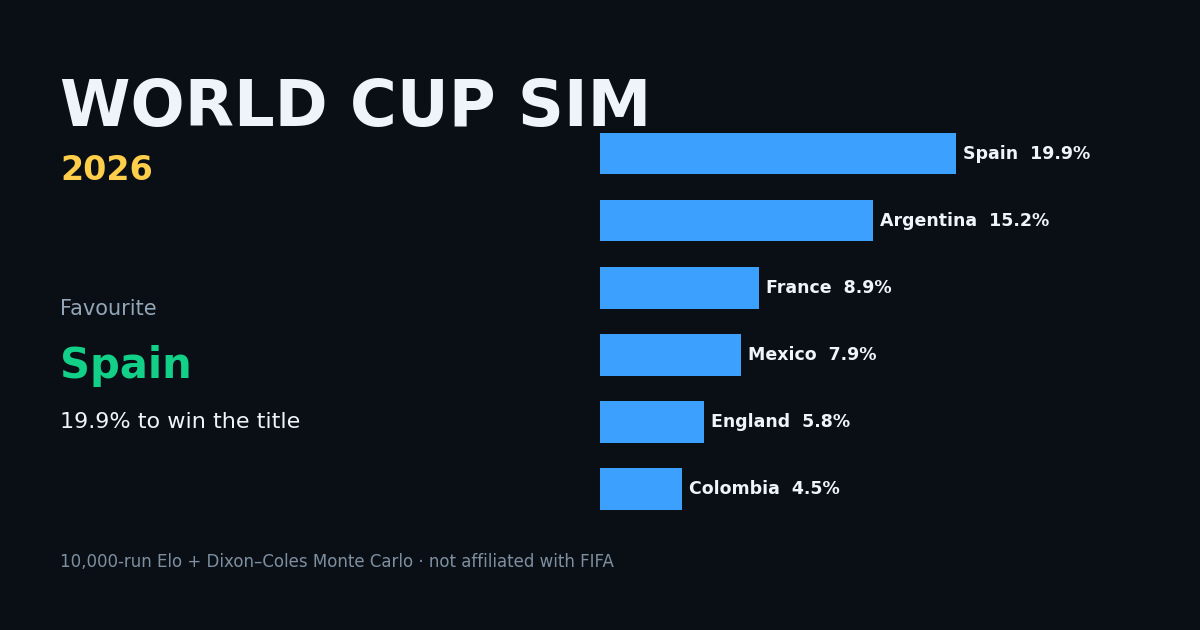
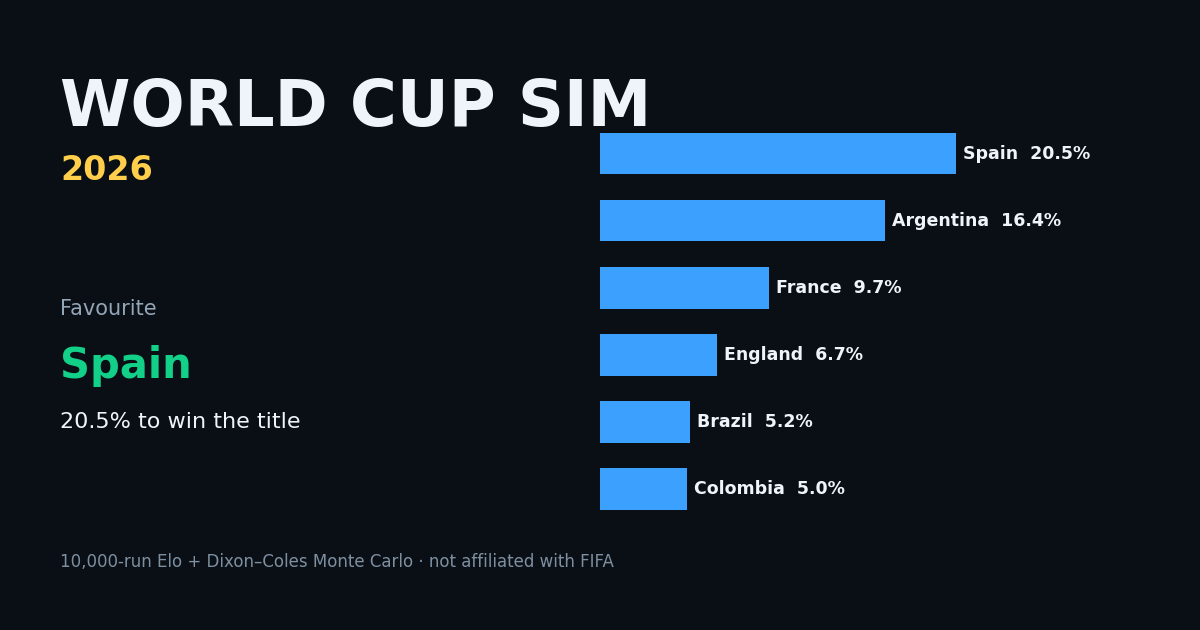
Deploy dashboard — 2026-06-14T23:48:23Z

diff --git a/app.js b/app.js
@@ -788,6 +788,49 @@
     wrap.appendChild(note);
   }
 
+  // Team-centric "Your scenarios" — pick a team, see which of its own results and which
+  // results elsewhere help or hurt its odds to advance. Reads D.rooting.by_team only.
+  function rootingTeamView(wrap) {
+    var r = D.rooting; if (!r || !r.by_team) return;
+    var byTeam = r.by_team; var teams = Object.keys(byTeam).sort();
+    if (!teams.length) return;
+    var head = ce("div", "sec-head"); head.id = "rooting-team";
+    head.innerHTML = '<h2>Your scenarios</h2><span class="note">pick your team — which of its remaining matches, and which results elsewhere, help or hurt its odds to advance</span>';
+    wrap.appendChild(head);
+    var p = ce("div", "panel");
+    var sel = '<select id="root-team" style="padding:4px;margin:0 6px">' +
+      teams.map(function (n) { return '<option>' + esc(n) + '</option>'; }).join("") + '</select>';
+    p.innerHTML = '<div style="margin-bottom:10px"><b>Team:</b> ' + sel + '</div><div id="root-team-out"></div>';
+    wrap.appendChild(p);
+    // One scenario row: result text + signed Δ advance (and Δ round-16 if non-trivial).
+    function pts(d) { var v = d * 100; return (v >= 0 ? "+" : "") + v.toFixed(1) + " pts"; }
+    function row(e) {
+      var pos = (e.d_advance || 0) >= 0;
+      var col = pos ? "var(--good,#2e7d32)" : "var(--bad,#c62828)";
+      var bits = '<b style="color:' + col + '">' + pts(e.d_advance || 0) + '</b> advance';
+      if (e.d_round16 != null && Math.abs(e.d_round16) >= 0.005) {
+        bits += ' <span class="faint">(' + pts(e.d_round16) + ' round of 16)</span>';
+      }
+      var ci = e.ci_flag ? ' <span class="faint" title="thin / noisy bucket — interpret with caution">~ thin sample</span>' : '';
+      return '<tr><td>' + esc(e.result || rootingBucketLabel(e.home, e.away, e.bucket)) + ci +
+        '</td><td style="white-space:nowrap;text-align:right">' + bits + '</td></tr>';
+    }
+    function section(title, entries) {
+      if (!entries || !entries.length) return '';
+      return '<h3 style="margin:.6em 0 .2em">' + esc(title) + '</h3>' +
+        '<table class="chart-table"><tbody>' + entries.map(row).join("") + '</tbody></table>';
+    }
+    function render() {
+      var name = document.getElementById("root-team").value;
+      var t = byTeam[name] || {};
+      var html = section("Your matches", t.own) + section("Root for / against elsewhere", t.other);
+      if (!html) html = '<p class="faint">No impactful remaining scenarios for ' + esc(name) + '.</p>';
+      document.getElementById("root-team-out").innerHTML = html;
+    }
+    p.querySelector("#root-team").addEventListener("change", render);
+    render();
+  }
+
   // View 2 — "if it goes to pens": interpolate the precomputed shootout win-curve for any pair.
   function shootoutCurve(curve, gap) {
     var g = curve.gap, p = curve.p_a_win;
@@ -905,7 +948,7 @@
     { key: "bracket", label: "Bracket & Groups", panels: [bracketView, groupsView] },
     { key: "distributions", label: "Distributions", panels: [distView, finalsView, fanChartView, upsetView, drawLuckView] },
     { key: "watch", label: "Watch", panels: [pivotalView, previewsView] },
-    { key: "rooting", label: "Rooting", panels: [rootingView] },
+    { key: "rooting", label: "Rooting", panels: [rootingTeamView, rootingView] },
     { key: "shootout", label: "Shootout", panels: [shootoutView] },
     { key: "awards", label: "Awards", panels: [goldenBootView, goldenGloveView, goldenBallView, youngPlayerView, playerPropsView] },
     { key: "context", label: "Context", panels: [contextIntro, styleViewX, conditionsViewX, headToHeadViewX] },